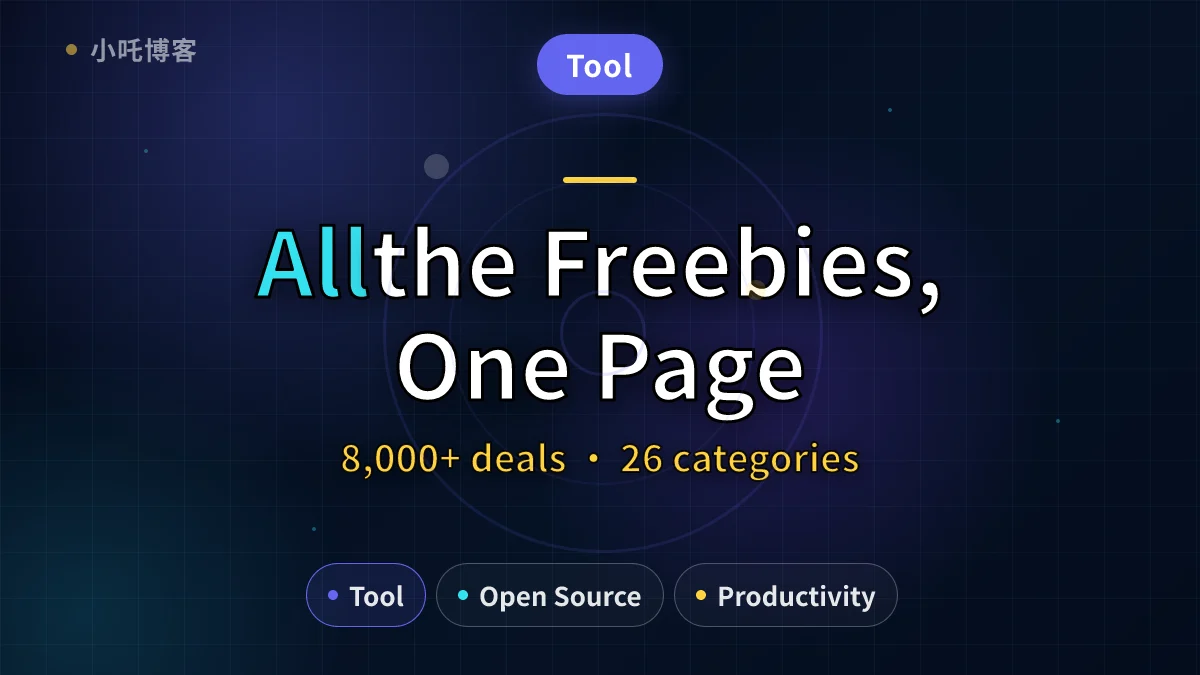
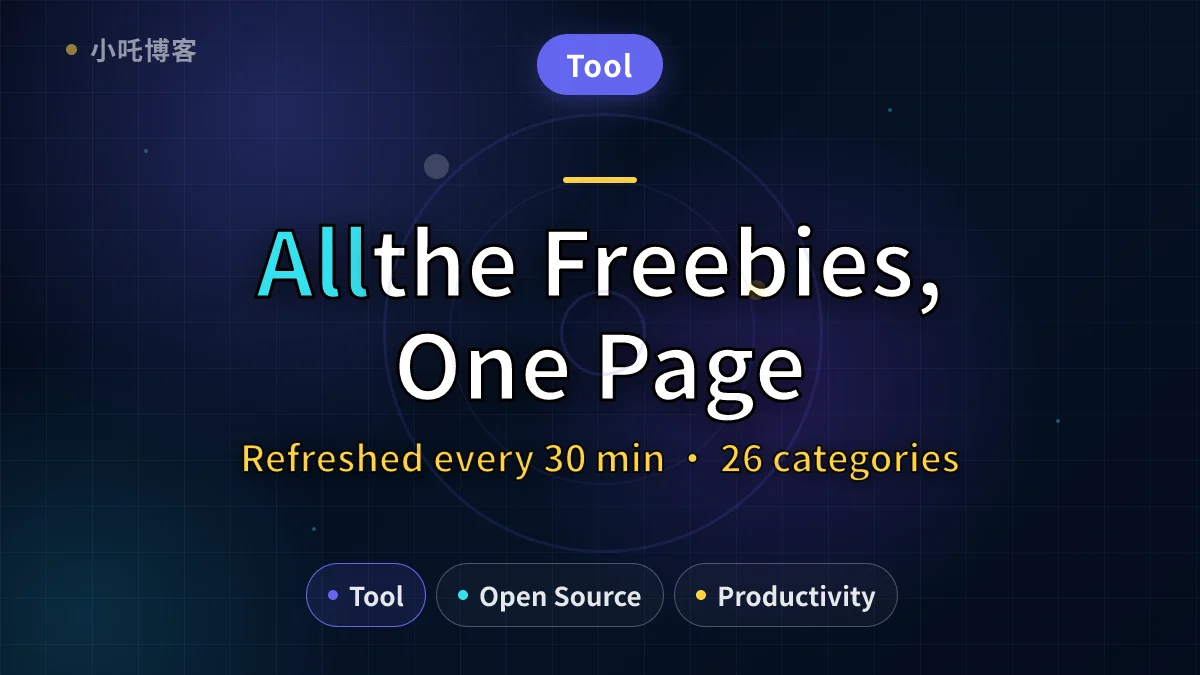
fix: 移除福利雷达文章中会过时的静态数量表述

Changed region(s): [[0.185, 0.6533, 0.8017, 0.7156]]

diff --git a/src/content/posts-en/freebie-radar.md b/src/content/posts-en/freebie-radar.md
@@ -37,7 +37,7 @@ It loads 24 items at a time — click "Load more" for the next batch. The build 
 
 Under the hood is the open-source [freebie-radar](https://github.com/ZiChuanLan/freebie-radar) project, around 2,900 stars at the time of writing. Its collectors watch 100+ sources and run every 30 minutes, pulling deals out of forums, communities, and vendor pages, then removing duplicates and garbage text and sorting everything into categories.
 
-There are over 8,000 items in the database now.
+What you see on the page is the latest collection round, refreshed every 30 minutes.
 
 ## Where it stops
 
@@ -47,7 +47,7 @@ There are over 8,000 items in the database now.
 
 ## One last thing
 
-The upstream project also supports Telegram push notifications — I left that off, because 8,000+ items a day would bury your phone.
+The upstream project also supports Telegram push notifications — I left that off, because that much data would bury your phone.
 
 If you want to build your own, start with the official repo's deployment docs. If you just want the freebies, the blog page is enough.
 

diff --git a/src/content/posts/freebie-radar.md b/src/content/posts/freebie-radar.md
@@ -40,7 +40,7 @@ enSlug: "freebie-radar"
 
 底层用的是开源项目 [freebie-radar](https://github.com/ZiChuanLan/freebie-radar)，目前约 2900 star。采集器盯着 100 多个源，每 30 分钟跑一轮，把论坛、社区、商家页面里的优惠信息抓回来，去掉重复和乱码，按类别归好。
 
-现在库里 8000 多条。
+你打开页面看到的就是最近一轮采集的结果，每 30 分钟更新一次。
 
 ## 说清楚它的边界
 
@@ -50,7 +50,7 @@ enSlug: "freebie-radar"
 
 ## 顺手说一句
 
-开源项目本身也支持 Telegram 推送，我这里没开——每天 8000 多条，全推手机会被淹没。
+开源项目本身也支持 Telegram 推送，我这里没开——数据量太大，全推手机会被淹没。
 
 你要是也想搭一个，先看官方仓库的部署说明；如果只是想白嫖，博客这页就够了。
 
